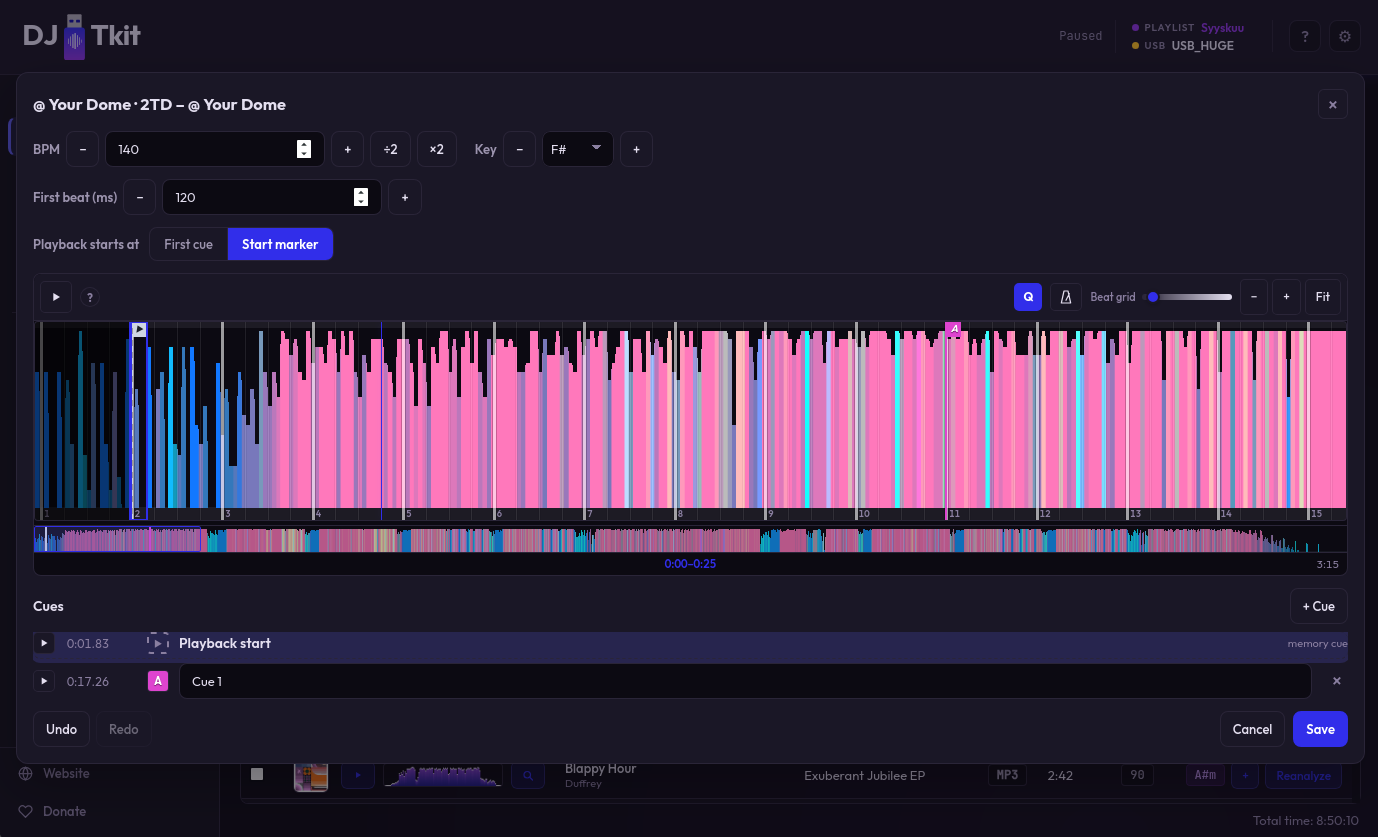
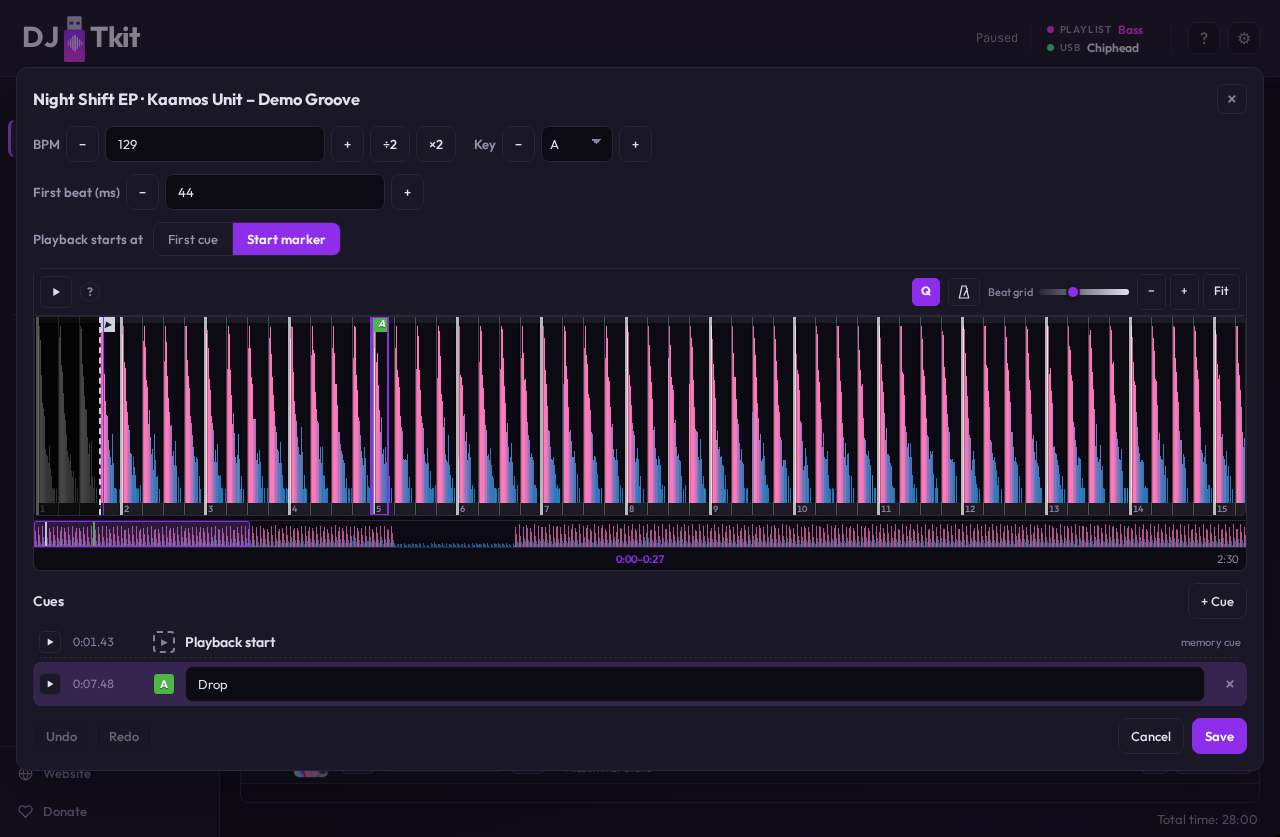
docs media generator

diff --git a/vanilla-ui/scripts/doc-media/page_init.js b/vanilla-ui/scripts/doc-media/page_init.js
@@ -1,12 +1,16 @@
 // Page init script for record.mjs: stands in for the Tauri backend with the
-// payloads the real backend produced (window.__DOC_GIF_FIXTURE__), and draws a
-// cursor and a Shift keycap, which a headless screencast doesn't show.
+// payloads the real backend produced (window.__DOC_GIF_FIXTURE__) plus
+// made-up playlists and a connected USB, and draws a cursor and a Shift
+// keycap, which a headless screencast doesn't show.
 (() => {
-  const { tracks, detail } = window.__DOC_GIF_FIXTURE__;
+  const { tracks, detail, sourceRoots, playlists } = window.__DOC_GIF_FIXTURE__;
   const opts = window.__DOC_GIF_OPTS__ || {};
+  const USB_ROOT = "/run/media/dj/Chiphead";
   const ls = window.localStorage;
   ls.setItem("djusbtkit.helpSeen", "1");
-  ls.setItem("djusbtkit.sourceRoots", JSON.stringify(["/music"]));
+  ls.setItem("djusbtkit.theme", "dark");
+  ls.setItem("djusbtkit.accentHue", "270");
+  ls.setItem("djusbtkit.sourceRoots", JSON.stringify(sourceRoots));
   ls.setItem("djusbtkit.cueStartOnFirstBeat", "0");
   ls.setItem("djusbtkit.cueQuantize", "1");
 
@@ -22,6 +26,21 @@
     durationMs,
   });
   const ok = (data) => ({ ok: true, data });
+  const sumMs = (items) => items.reduce((ms, t) => ms + (Number(t.durationMs) || 0), 0);
+  const exportedAt = "2026-09-26T18:00:00Z";
+  // The sidebar lists playlists newest first, i.e. reversed.
+  const playlistRows = [...playlists].reverse().map(({ id, name, tracks: items }) => ({
+    id,
+    name,
+    source: "app",
+    lastExportedAt: items.length ? exportedAt : null,
+    lastExportedUsbRoot: items.length ? USB_ROOT : null,
+    lastExportedTrackCount: items.length || null,
+    trackCount: items.length,
+    totalDurationMs: sumMs(items),
+    createdAt: exportedAt,
+    updatedAt: exportedAt,
+  }));
 
   window.__TAURI__ = {
     core: {
@@ -40,7 +59,36 @@
           case "detect_external_master_db":
             return ok({ found: false, path: null });
           case "list_playlists":
-            return ok({ items: [] });
+            return ok({ items: playlistRows });
+          case "get_playlist_tracks": {
+            const items = playlists.find((p) => p.id === r.playlistId)?.tracks || [];
+            return ok({
+              playlistId: r.playlistId,
+              items,
+              total: items.length,
+              hasMore: false,
+              totalDurationMs: sumMs(items),
+              durationKnownCount: items.length,
+            });
+          }
+          case "check_source_roots":
+            return ok({ missing: [] });
+          case "list_usb_devices":
+            return ok({ items: [{ id: "usb-chiphead", rootPath: USB_ROOT }] });
+          case "validate_usb_root":
+            return ok({
+              valid: true,
+              normalizedRoot: USB_ROOT,
+              hasVendorRoot: true,
+              hasContents: true,
+              hasPdb: true,
+              hasWriteAccess: true,
+              warnings: [],
+            });
+          case "get_usb_device_name":
+            return ok({ name: "Chiphead" });
+          case "run_usb_diagnostics":
+            return ok({ overallStatus: "PASS", durationMs: 842, warnings: [], checks: [], playlistUsbExportStatus: [] });
           case "fetch_usb_playlists":
           case "fetch_usb_histories":
             return ok({ items: [], warnings: [] });
@@ -48,7 +96,15 @@
           case "search_tracks":
             return ok({ total: tracks.length, items: tracks });
           case "browse_source_files":
-            return ok({ total: tracks.length, items: tracks, nextCursor: null, hasMore: false });
+            return ok({
+              total: tracks.length,
+              items: tracks,
+              nextCursor: null,
+              hasMore: false,
+              sourceRootAnalysis: sourceRoots.map((sourceRoot) => ({ sourceRoot, fullyAnalyzed: true })),
+              totalDurationMs: sumMs(tracks),
+              durationKnownCount: tracks.length,
+            });
           case "get_tracks_by_ids_with_previews":
             return ok({ items: tracks.filter((t) => (r.trackIds || []).includes(t.id)) });
           case "resolve_track_identity":

diff --git a/backend/src/bin/dump_doc_gif_fixture.rs b/backend/src/bin/dump_doc_gif_fixture.rs
@@ -1,5 +1,5 @@
-//! Builds the data behind the docs' cue-editor GIFs (see
-//! `vanilla-ui/scripts/doc-gifs/record.mjs`): scans and analyzes a source
+//! Builds the data behind the docs' GIFs and screenshots (see
+//! `vanilla-ui/scripts/doc-media/record.mjs`): scans and analyzes a source
 //! folder into a fresh data dir, then writes what the frontend would receive
 //! (`get_tracks_by_ids_with_previews` for every track, `get_track_detail` for
 //! the one opened in the editor) as JSON.

diff --git a/vanilla-ui/README.md b/vanilla-ui/README.md
@@ -127,19 +127,21 @@ rendering, command wiring, playlist workflows, source-root filtering, USB flows,
 diagnostics/repair UI behavior, playback state, event-log behavior, and
 message-routing contracts.
 
-## Docs GIFs
+## Docs media
 
-The cue-editor GIFs in `docs/assets/` (used by `docs/CUE_EDITOR.md` and the
-top-level README) are recorded from the real frontend build. Re-record them
-after a cue-editor UI change:
+The GIFs and screenshots in `docs/assets/` (used by `docs/CUE_EDITOR.md` and
+the top-level README) are recorded from the real frontend build: the three
+`cue-editor-*.gif`, `DJ-USB-Tkit.png` and `cue-editor.png`. Re-record them
+after a UI change:
 
 ```bash
-npm run docs:gifs --prefix vanilla-ui
+npm run docs:media --prefix vanilla-ui
 ```
 
-It needs `cargo` and `ffmpeg`. The script synthesises a 129 BPM demo track,
-scans and analyzes it together with the backend's fixture tracks through the
-real backend (`dump_doc_gif_fixture` bin), and drives the cue editor in
-headless Chromium with Tauri's invoke answered from that data. To record only
-some scenes, name them: `npm run docs:gifs -- cue-editor-drag-cues`. See
-`scripts/doc-gifs/record.mjs`.
+It needs `cargo` and `ffmpeg`. The script synthesises a made-up library (10
+tracks on 2 albums in two source folders), scans and analyzes it through the
+real backend (`dump_doc_gif_fixture` bin), and drives the app in headless
+Chromium with Tauri's invoke answered from that data, plus made-up playlists
+and a connected USB named "Chiphead". To record only some, name them:
+`npm run docs:media --prefix vanilla-ui -- cue-editor cue-editor-drag-cues`.
+See `scripts/doc-media/record.mjs`.

diff --git a/CHANGELOG.md b/CHANGELOG.md
@@ -60,6 +60,10 @@
   opens, it stops, so Play and "+ Cue" always apply to the track being edited.
 - **Fix:** the highlight on the selected cue in the cue editor's list no
   longer gets cut off at the edges.
+- **Chore:** the README and cue-editor screenshots are now generated like the
+  cue-editor GIFs, from a made-up demo library. One command
+  (`npm run docs:media --prefix vanilla-ui`) regenerates all of them;
+  `docs:gifs` is gone.
 
 ## 0.2.7
 
